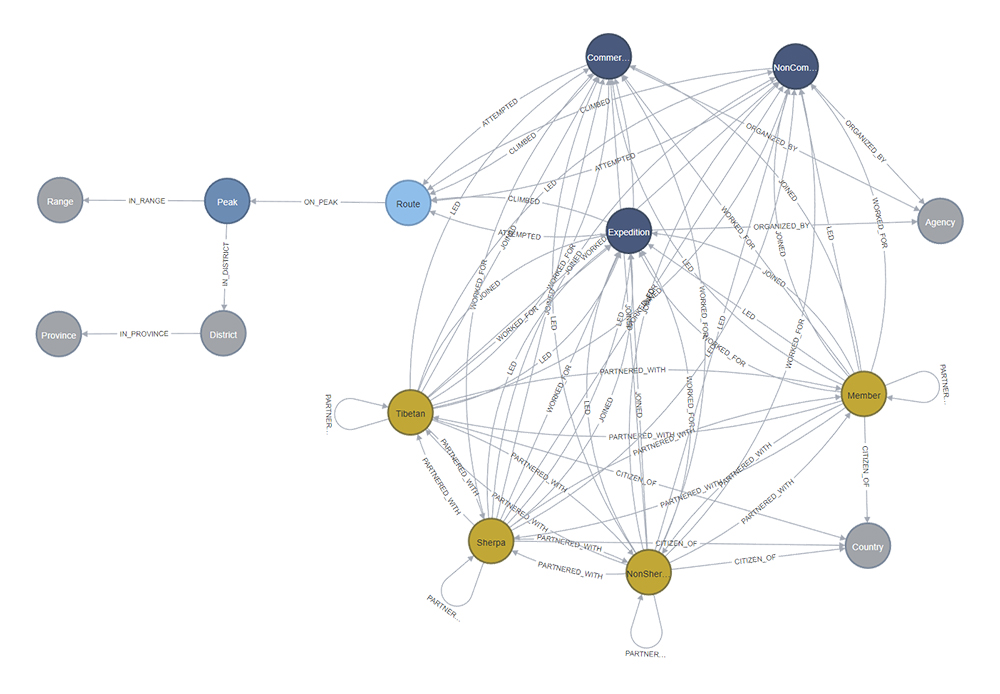
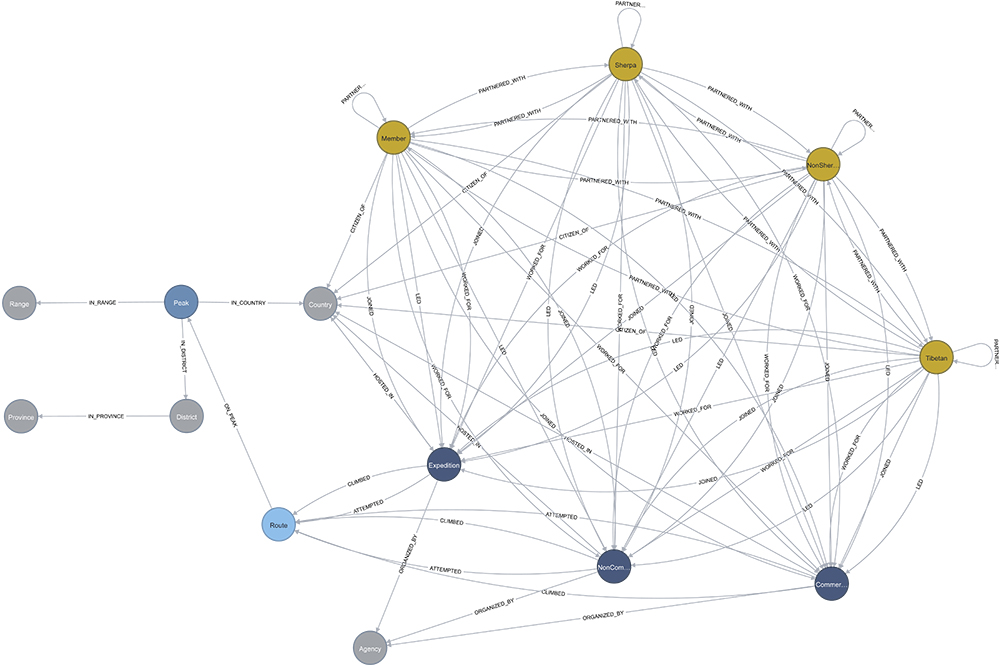
Add Peak to Country relationship

diff --git a/docs/NEO4J_DATABASE.md b/docs/NEO4J_DATABASE.md
@@ -347,10 +347,13 @@ The following columns from the Himalayan Database tables have not been imported 
   * `MSMTNOTE3` - Summit notes for the third ascent.
   * `DEATHRTE` - The route number in use by the deceased climber.
 * From the `peaks` table:
+  * `LOCATION` - This information is represented by the relationship to `Range` nodes and the data now include 
+  `latitude` and `longitude` attributes gathered from the Nepal Himal Peak Profile website. 
   * `HIMAL` - We do not import this column but instead use the `RANGE` column collected from the Nepal Himalaya Peak
     Profile website.
   * `REGION` - We do not import this column but instead use the `DISTRICT` and `PROVINCE` columns collected from the
     Nepal Himalaya Peak Profile website.
+  * `PHOST` - This information is represented by the relationship to `Country` nodes.
   * `PYEAR` - The year of the peak first ascent. This information can be found querying the database.
   * `PSEASON` - The season of the peak first ascent. This information can be found querying the database.
   * `PEXPID` - The expedition id of the peak first ascent. This information can be found querying the database.
